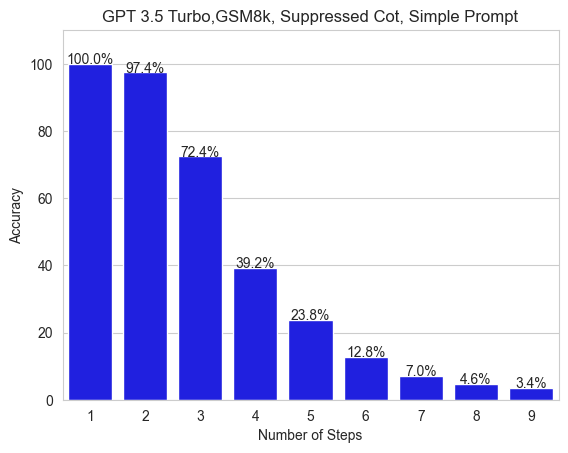
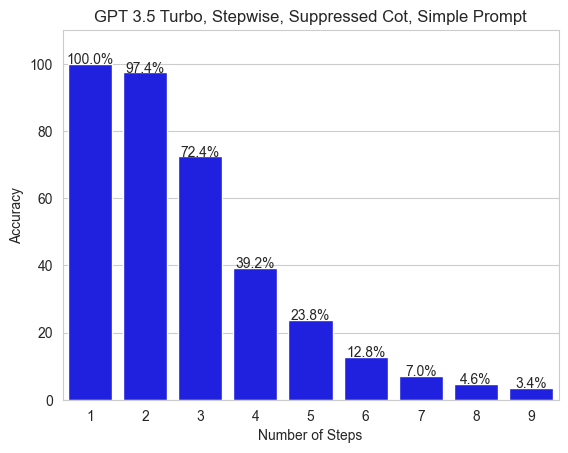
Changed some graph titles.

Changed region(s): [[0.1496, 0.0, 0.9278, 0.0618]]

diff --git a/Source/visualizer.py b/Source/visualizer.py
@@ -142,7 +142,7 @@ def create_graphs():
 
                 file_name = f"Stepwise-{modality}-{prompt}-{model}".replace(".", "")
                 save_path = os.path.join(config.RESULTS_FOLDER, model, file_name)
-                create_bar_chart(graph_title=f"{format_name(name=model, is_model=True)},{dataset}, {format_name(modality)},"
+                create_bar_chart(graph_title=f"{format_name(name=model, is_model=True)}, Stepwise, {format_name(modality)},"
                                              f" {prompt} Prompt",
                                  x_title="Number of Steps", y_title="Accuracy", data=heights,
                                  column_labels=[i for i in range(1, 10)], save_path=save_path)

diff --git a/Source/query_utils.py b/Source/query_utils.py
@@ -195,7 +195,7 @@ def run_test(model: str, modality: str, dataset: str, save: bool = True, cont: b
 
         result = {"Q": prompt, "R": response, "Extract-Response": extraction_response, "A": answer, "GT": y}
 
-        print(f"Question: {prompt}\nResponse: {response}\nAnswer: {answer}\nGT: {y}")
+        #print(f"Question: {prompt}\nResponse: {response}\nAnswer: {answer}\nGT: {y}")
 
         if save:
             # Save the run results
